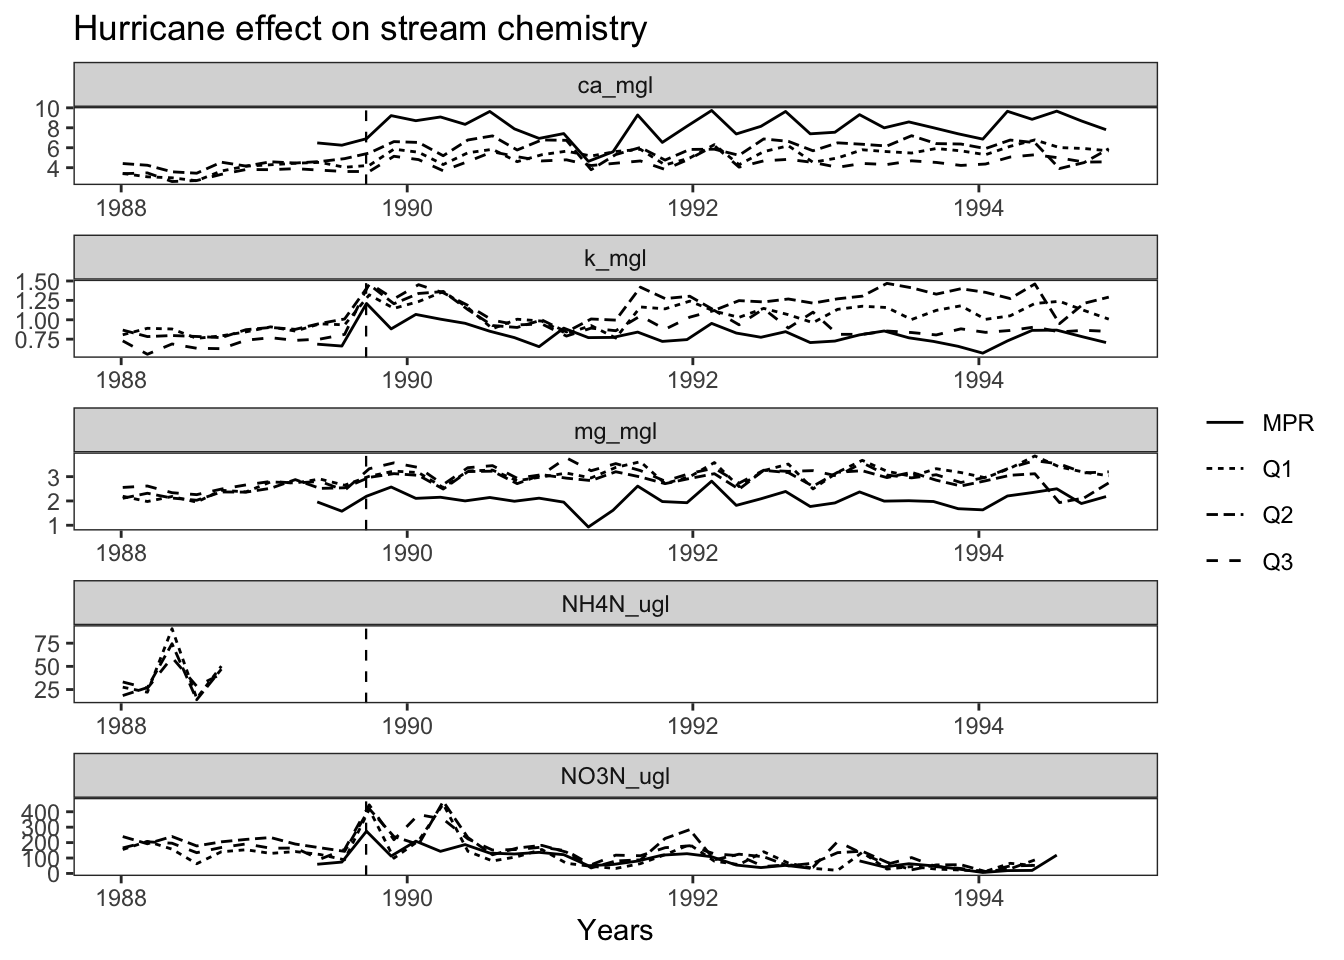
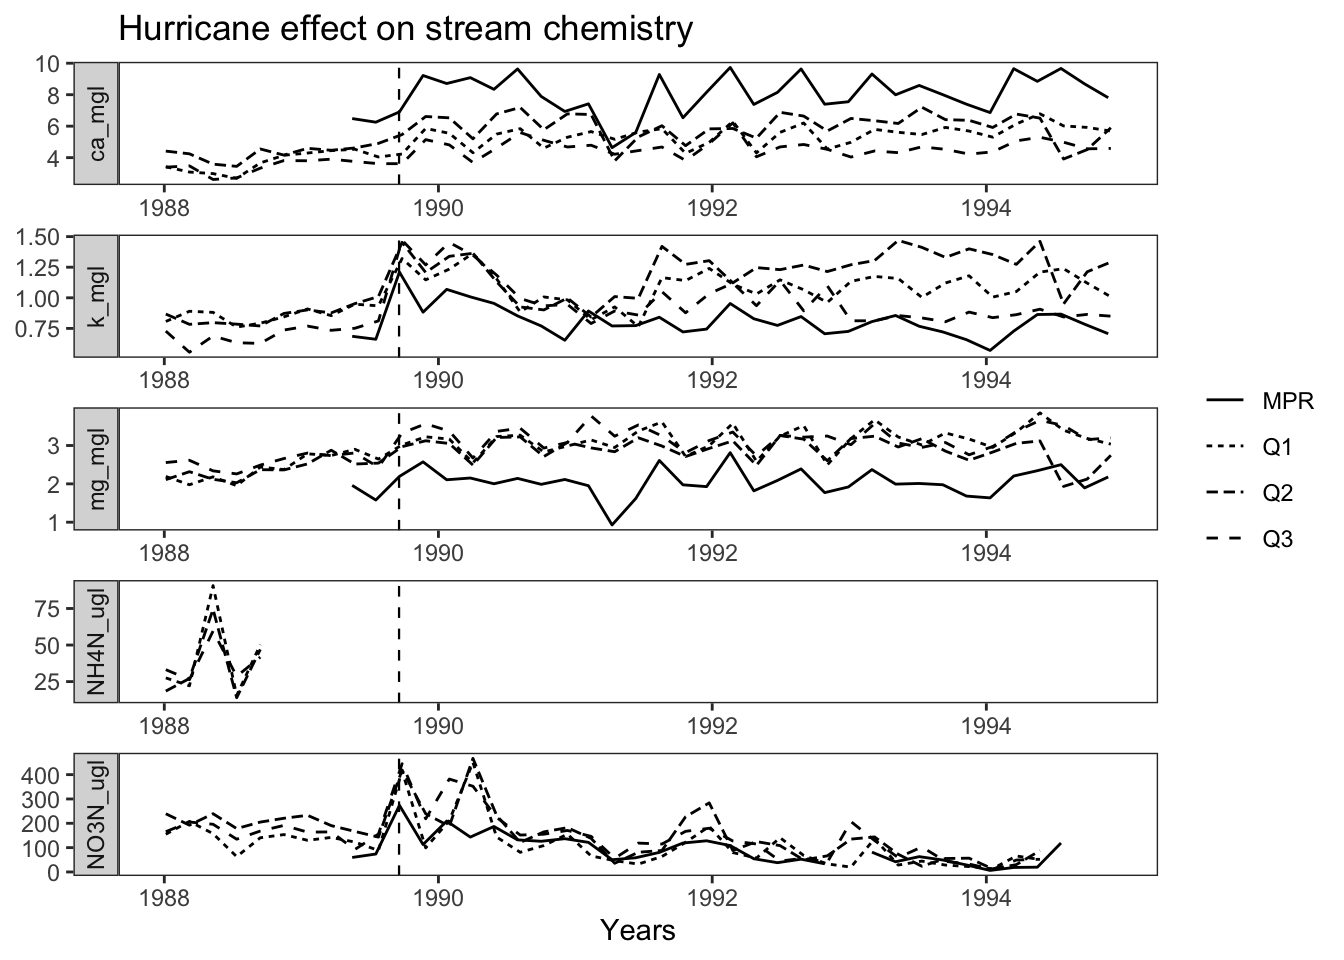
changes

Changed region(s): [[0.0, 0.0, 0.875, 1.0], [0.9062, 0.4062, 0.9688, 0.5938]]

diff --git a/docs/paper.html b/docs/paper.html
@@ -153,7 +153,7 @@ pre > code.sourceCode > span > a:first-child::before { text-decoration: underlin
   <li><a href="#methods" id="toc-methods" class="nav-link" data-scroll-target="#methods">Methods</a></li>
   <li><a href="#results" id="toc-results" class="nav-link" data-scroll-target="#results">Results</a></li>
   </ul>
-<div class="quarto-other-links"><h2>Other Links</h2><ul><li><a href="https://eds-214-reproducibility-m26.github.io/course-materials/final-project/final-project.html"><i class="bi bi-link-45deg"></i>EDS 214 Course Website</a></li><li><a href="https://moniqueallyson.github.io/"><i class="bi bi-link-45deg"></i>Monique's website</a></li></ul></div></nav>
+<div class="quarto-other-links"><h2>Other Links</h2><ul><li><a href="https://eds-214-reproducibility-m26.github.io/course-materials/final-project/final-project.html"><i class="bi bi-link-45deg"></i>EDS 214 Course Website</a></li></ul></div></nav>
     </div>
 <!-- main -->
 <main class="content" id="quarto-document-content">
@@ -204,11 +204,11 @@ pre > code.sourceCode > span > a:first-child::before { text-decoration: underlin
 
 <section id="background" class="level1">
 <h1>Background</h1>
-<p>The final project is the reproduction of figure 3, from the article by Douglas A. Schafer titled, “Effects of hurricane disturbance on stream water concentrations and fluxes in eight tropical forest watersheds of the Luquillo Experimental Forest, Puerto Rico”. The final output is a graph depicting a 9 week average from the years between 1985 to 1995, from four locations in Puerto Rico: Bisley Quebrada 1-3 (BQ1-3) and Puente Roto Mameyes. In the article, the results show that Nitrate, Ammonium, and Potassium have increased, while Magnesium and Calcium did not that hurricanes can have an effect on streamwater. The hurricane disturbance had a different effect on different chemicals. The most disturbed watersheds were at the sites BQ1-3.</p>
+<p>The final project is the reproduction of figure 3 from the article by Douglas A. Schafer titled, “Effects of hurricane disturbance on stream water concentrations and fluxes in eight tropical forest watersheds of the Luquillo Experimental Forest, Puerto Rico”. The final output is a graph depicting a 9 week average from the years between 1985 to 1995, from four locations in Puerto Rico: Bisley Quebrada 1-3 (BQ1-3) and Puente Roto Mameyes. In the article, the results show that Nitrate, Ammonium, and Potassium have increased, while Magnesium and Calcium did not that hurricanes can have an effect on streamwater. The hurricane disturbance had a different effect on different chemicals. The most disturbed watersheds were at the sites BQ1-3.</p>
 </section>
 <section id="data" class="level1">
 <h1>Data</h1>
-<p>The data is from William H. McDowell at the International Institute of Tropical Forestry(IITF), USDA Forest Service, that was downloaded from the EDI Data Portal.</p>
+<p>The data was downloaded on the website for EDI dAta Portal from William H. McDowell at the International Institute of Tropical Forestry(IITF), USDA Forest Service.</p>
 <div class="cell">
 <div class="code-copy-outer-scaffold"><div class="sourceCode cell-code" id="cb1"><pre class="sourceCode r code-with-copy"><code class="sourceCode r"><span id="cb1-1"><a href="#cb1-1" aria-hidden="true" tabindex="-1"></a><span class="fu">library</span>(tidyverse)</span>
 <span id="cb1-2"><a href="#cb1-2" aria-hidden="true" tabindex="-1"></a>figure3 <span class="ot">&lt;-</span> <span class="fu">read_csv</span>(</span>
@@ -224,12 +224,59 @@ pre > code.sourceCode > span > a:first-child::before { text-decoration: underlin
 <h1>Results</h1>
 <p>the v-line shown going down the graph represents the hurricane hugo formation.</p>
 <div class="cell">
+<div class="code-copy-outer-scaffold"><div class="sourceCode cell-code" id="cb2"><pre class="sourceCode r code-with-copy"><code class="sourceCode r"><span id="cb2-1"><a href="#cb2-1" aria-hidden="true" tabindex="-1"></a><span class="fu">ggplot</span>(</span>
+<span id="cb2-2"><a href="#cb2-2" aria-hidden="true" tabindex="-1"></a>  <span class="at">data =</span> figure3, <span class="co"># reading the clean data csv in output</span></span>
+<span id="cb2-3"><a href="#cb2-3" aria-hidden="true" tabindex="-1"></a>  <span class="at">mapping =</span> <span class="fu">aes</span>(</span>
+<span id="cb2-4"><a href="#cb2-4" aria-hidden="true" tabindex="-1"></a>    <span class="co"># gives the x-axis, y-axis, and the line by site location for each chemical ion</span></span>
+<span id="cb2-5"><a href="#cb2-5" aria-hidden="true" tabindex="-1"></a>    <span class="at">x =</span> Sample_Date,</span>
+<span id="cb2-6"><a href="#cb2-6" aria-hidden="true" tabindex="-1"></a>    <span class="at">y =</span> concentration,</span>
+<span id="cb2-7"><a href="#cb2-7" aria-hidden="true" tabindex="-1"></a>    <span class="at">linetype =</span> site</span>
+<span id="cb2-8"><a href="#cb2-8" aria-hidden="true" tabindex="-1"></a>  )</span>
+<span id="cb2-9"><a href="#cb2-9" aria-hidden="true" tabindex="-1"></a>) <span class="sc">+</span></span>
+<span id="cb2-10"><a href="#cb2-10" aria-hidden="true" tabindex="-1"></a>  <span class="fu">ggtitle</span>(</span>
+<span id="cb2-11"><a href="#cb2-11" aria-hidden="true" tabindex="-1"></a>    <span class="st">"Hurricane effect on stream chemistry"</span> <span class="co"># title from the article to give reference on what the figure is about</span></span>
+<span id="cb2-12"><a href="#cb2-12" aria-hidden="true" tabindex="-1"></a>  ) <span class="sc">+</span></span>
+<span id="cb2-13"><a href="#cb2-13" aria-hidden="true" tabindex="-1"></a>  <span class="fu">geom_line</span>() <span class="sc">+</span></span>
+<span id="cb2-14"><a href="#cb2-14" aria-hidden="true" tabindex="-1"></a>  <span class="fu">geom_vline</span>(</span>
+<span id="cb2-15"><a href="#cb2-15" aria-hidden="true" tabindex="-1"></a>    <span class="co"># to show reference line as shown in original figure which depicts the start of the distrubance</span></span>
+<span id="cb2-16"><a href="#cb2-16" aria-hidden="true" tabindex="-1"></a>    <span class="at">xintercept =</span> <span class="fu">ymd</span>(<span class="st">"1989-09-18"</span>), <span class="co"># hurricane hugo date formation</span></span>
+<span id="cb2-17"><a href="#cb2-17" aria-hidden="true" tabindex="-1"></a>    <span class="at">linetype =</span> <span class="st">"dashed"</span>, <span class="co"># dash line for the separation</span></span>
+<span id="cb2-18"><a href="#cb2-18" aria-hidden="true" tabindex="-1"></a>    <span class="at">linewidth =</span> <span class="fl">0.4</span></span>
+<span id="cb2-19"><a href="#cb2-19" aria-hidden="true" tabindex="-1"></a>  ) <span class="sc">+</span></span>
+<span id="cb2-20"><a href="#cb2-20" aria-hidden="true" tabindex="-1"></a>  <span class="fu">labs</span>(</span>
+<span id="cb2-21"><a href="#cb2-21" aria-hidden="true" tabindex="-1"></a>    <span class="at">x =</span> <span class="st">"Years"</span>,</span>
+<span id="cb2-22"><a href="#cb2-22" aria-hidden="true" tabindex="-1"></a>    <span class="at">y =</span> <span class="cn">NULL</span></span>
+<span id="cb2-23"><a href="#cb2-23" aria-hidden="true" tabindex="-1"></a>  ) <span class="sc">+</span></span>
+<span id="cb2-24"><a href="#cb2-24" aria-hidden="true" tabindex="-1"></a>  <span class="fu">facet_wrap</span>(</span>
+<span id="cb2-25"><a href="#cb2-25" aria-hidden="true" tabindex="-1"></a>    <span class="sc">~</span>ion,</span>
+<span id="cb2-26"><a href="#cb2-26" aria-hidden="true" tabindex="-1"></a>    <span class="at">ncol =</span> <span class="dv">1</span>,</span>
+<span id="cb2-27"><a href="#cb2-27" aria-hidden="true" tabindex="-1"></a>    <span class="at">scales =</span> <span class="st">"free"</span>,</span>
+<span id="cb2-28"><a href="#cb2-28" aria-hidden="true" tabindex="-1"></a>    <span class="at">strip.position =</span> <span class="st">"left"</span>,</span>
+<span id="cb2-29"><a href="#cb2-29" aria-hidden="true" tabindex="-1"></a>    <span class="at">nrow =</span> <span class="dv">5</span></span>
+<span id="cb2-30"><a href="#cb2-30" aria-hidden="true" tabindex="-1"></a>  ) <span class="sc">+</span> <span class="co"># frees up the scaling for each ion since the units are differnet and so are the concentration levels</span></span>
+<span id="cb2-31"><a href="#cb2-31" aria-hidden="true" tabindex="-1"></a>  <span class="fu">theme_bw</span>() <span class="sc">+</span> <span class="co"># black and white to match the original</span></span>
+<span id="cb2-32"><a href="#cb2-32" aria-hidden="true" tabindex="-1"></a>  <span class="fu">theme</span>(</span>
+<span id="cb2-33"><a href="#cb2-33" aria-hidden="true" tabindex="-1"></a>    <span class="at">legend.title =</span> <span class="fu">element_blank</span>() <span class="co"># original did not have a legend title</span></span>
+<span id="cb2-34"><a href="#cb2-34" aria-hidden="true" tabindex="-1"></a>  ) <span class="sc">+</span></span>
+<span id="cb2-35"><a href="#cb2-35" aria-hidden="true" tabindex="-1"></a>  <span class="fu">theme</span>(</span>
+<span id="cb2-36"><a href="#cb2-36" aria-hidden="true" tabindex="-1"></a>    <span class="at">panel.grid.major =</span> <span class="fu">element_blank</span>(), <span class="co"># remove major grid lines for cleaner look</span></span>
+<span id="cb2-37"><a href="#cb2-37" aria-hidden="true" tabindex="-1"></a>    <span class="at">panel.grid.minor =</span> <span class="fu">element_blank</span>() <span class="co"># remove minor grid lines for sleekness</span></span>
+<span id="cb2-38"><a href="#cb2-38" aria-hidden="true" tabindex="-1"></a>  )</span></code></pre></div><button title="Copy to Clipboard" class="code-copy-button"><i class="bi"></i></button></div>
 <div class="cell-output-display">
 <div>
 <figure class="figure">
 <p><img src="paper_files/figure-html/unnamed-chunk-2-1.png" class="img-fluid figure-img" width="672"></p>
 </figure>
 </div>
+</div>
+<div class="code-copy-outer-scaffold"><div class="sourceCode cell-code" id="cb3"><pre class="sourceCode r code-with-copy"><code class="sourceCode r"><span id="cb3-1"><a href="#cb3-1" aria-hidden="true" tabindex="-1"></a><span class="fu">print</span>(ggplot)</span></code></pre></div><button title="Copy to Clipboard" class="code-copy-button"><i class="bi"></i></button></div>
+<div class="cell-output cell-output-stdout">
+<pre><code>function (data = NULL, mapping = aes(), ..., environment = parent.frame()) 
+{
+    UseMethod("ggplot")
+}
+&lt;bytecode: 0xc0ba32040&gt;
+&lt;environment: namespace:ggplot2&gt;</code></pre>
 </div>
 </div>
 
